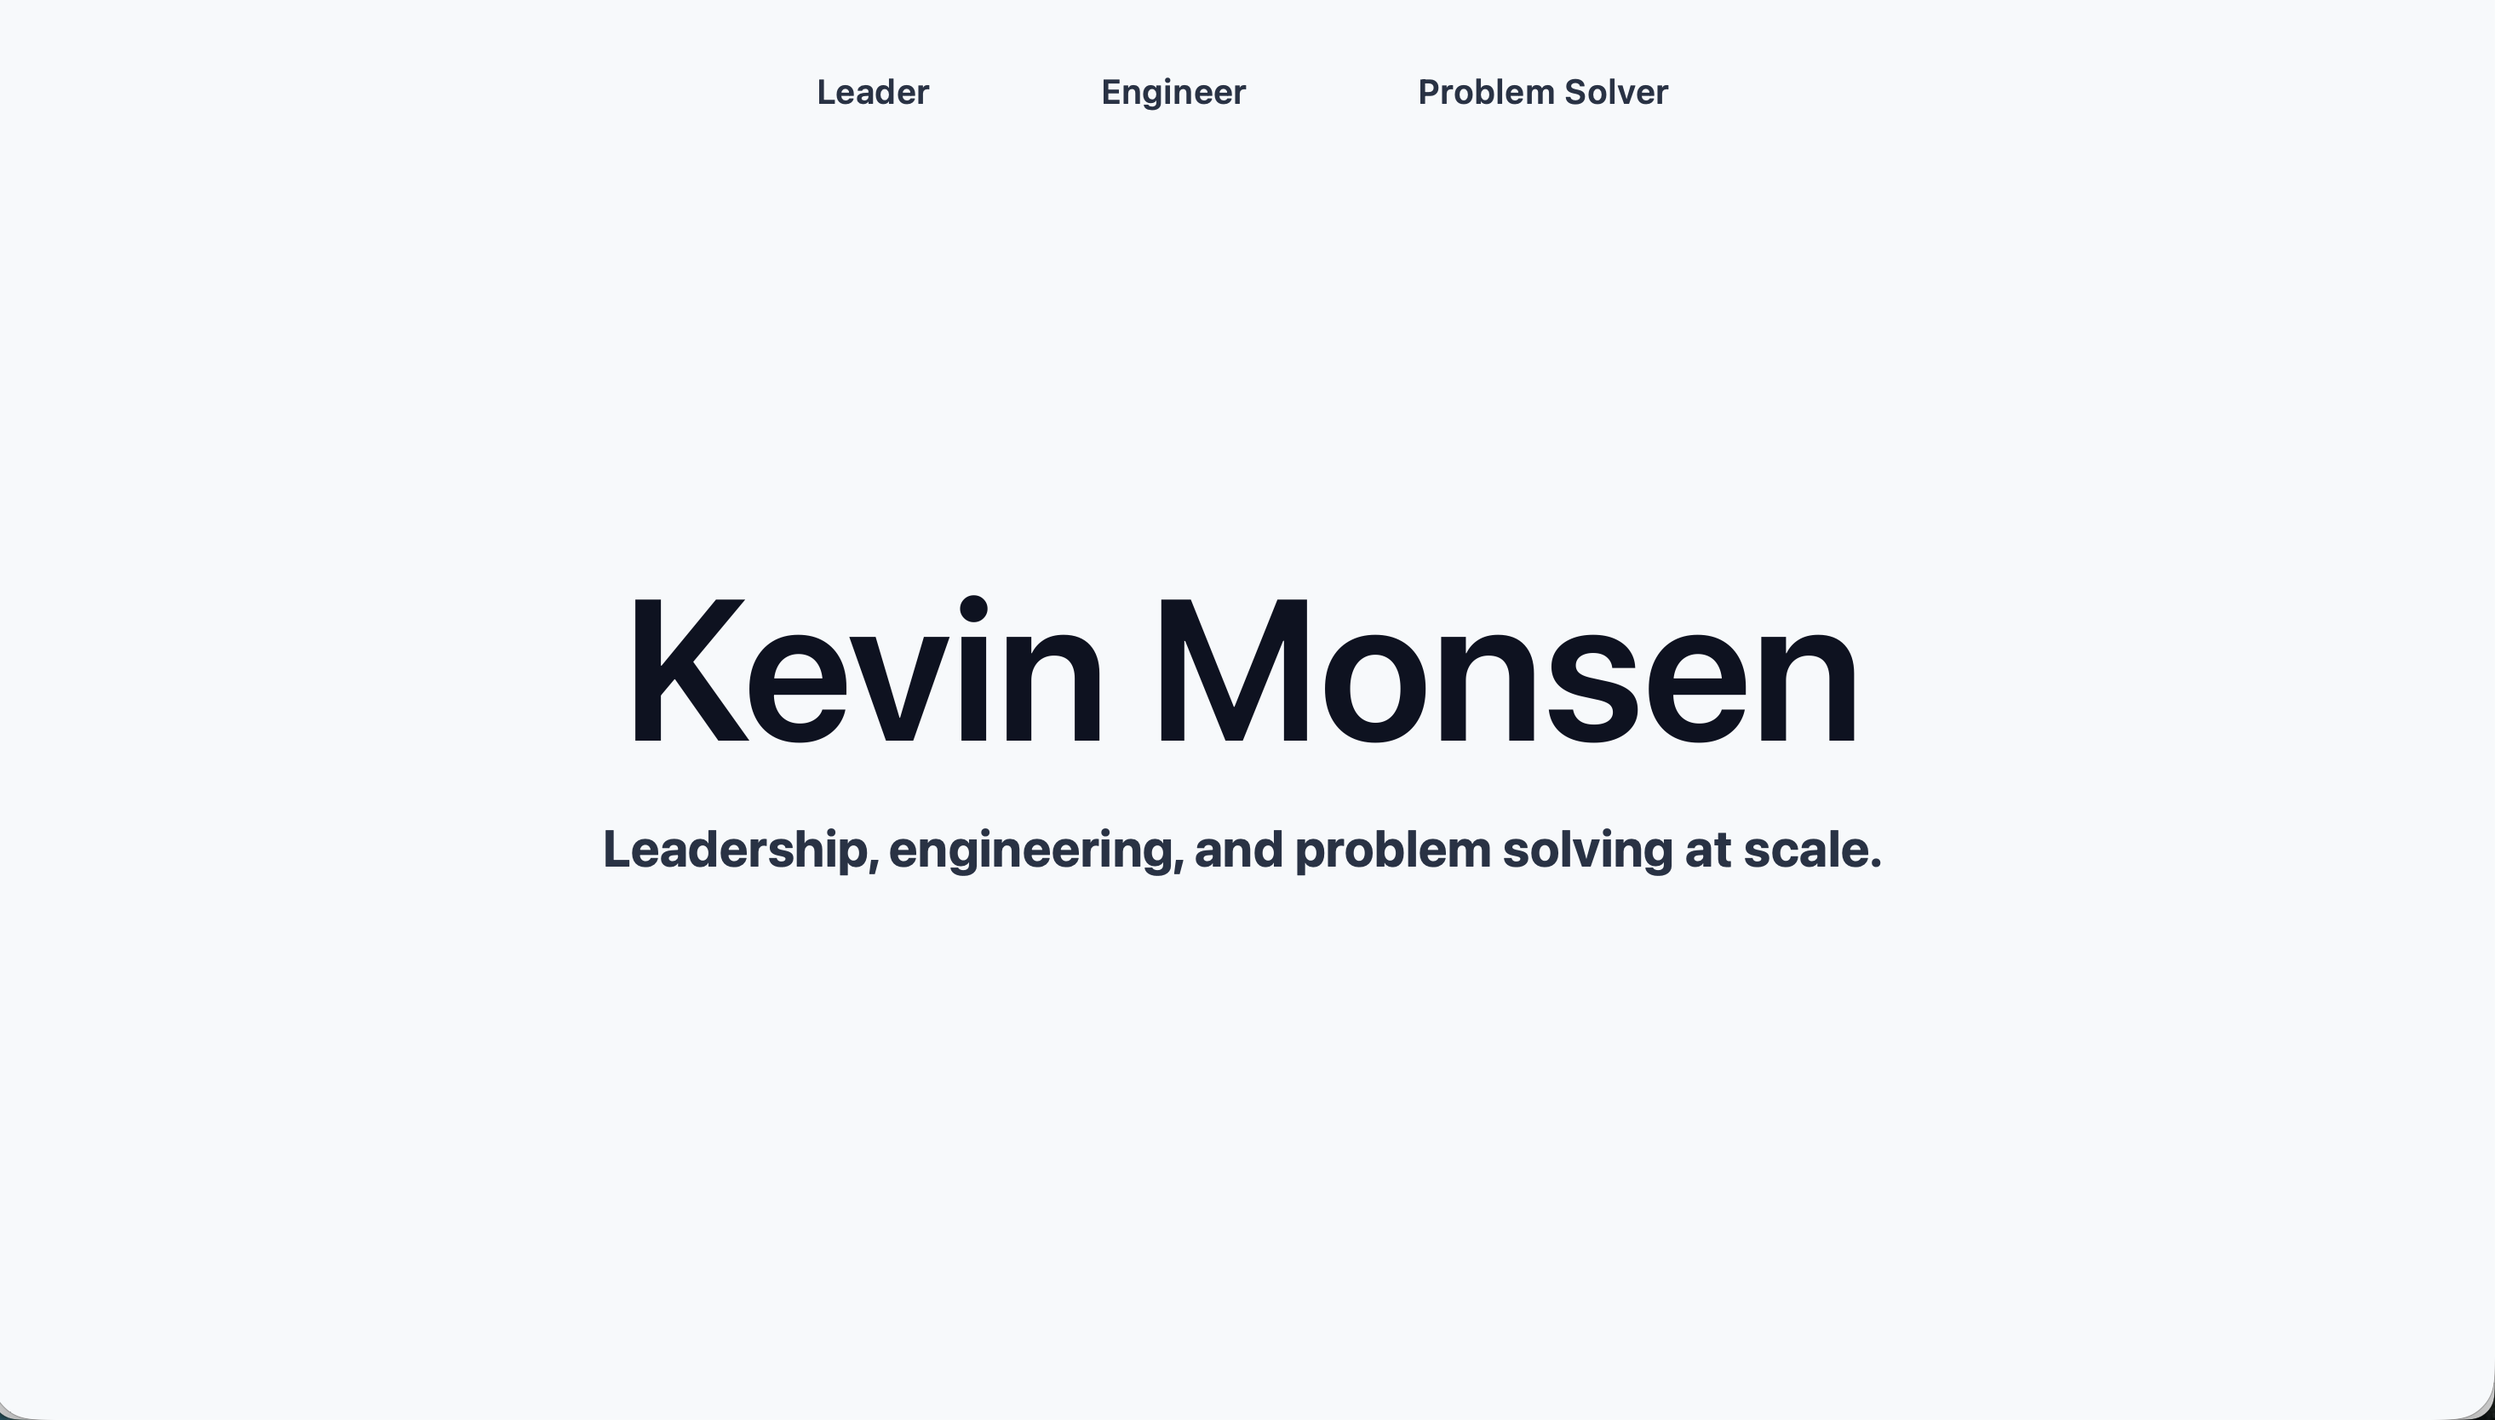
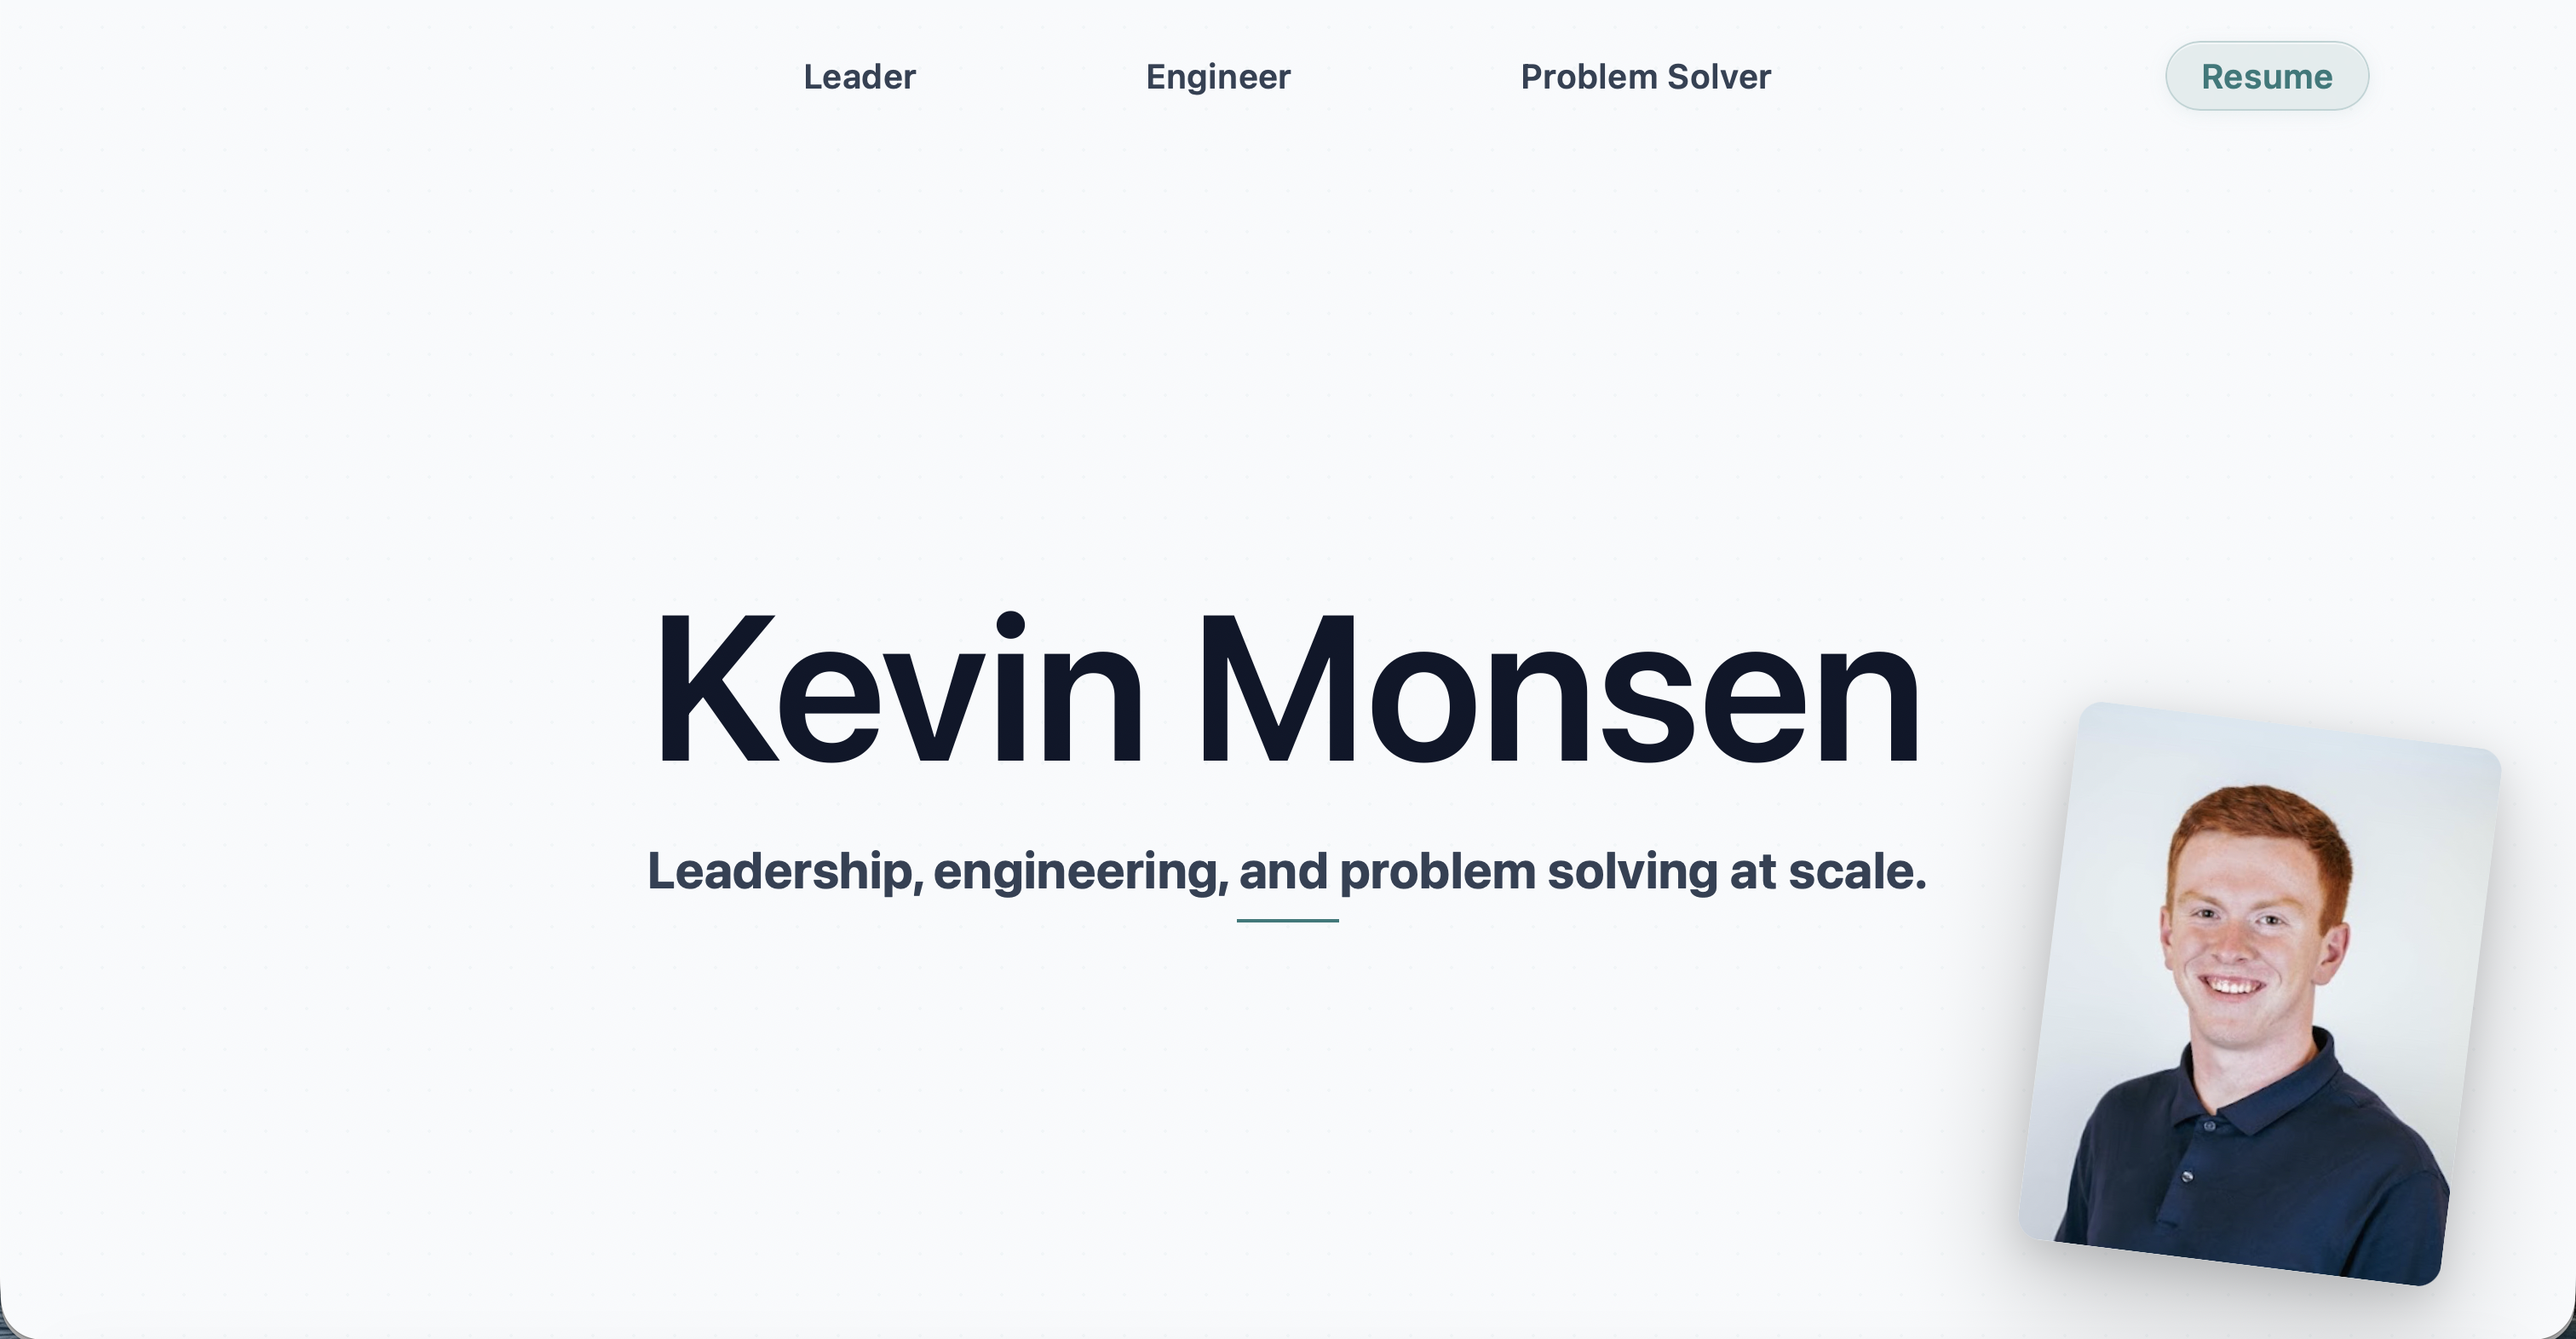
Project Information Update

diff --git a/build.js b/build.js
@@ -294,8 +294,6 @@ function buildAccordion() {
       card += `                  <b>Approach</b>: ${sanitizeHtml(w.approach)}<br>\n`;
     if (w.outcome && w.outcome !== "TODO")
       card += `                  <b>Outcome</b>: ${escHtml(stripTags(w.outcome))}<br>\n`;
-    if (w.relevance)
-      card += `                  <b>Relevance</b>: ${escHtml(w.relevance)}<br>\n`;
     if (href)
       card += `                  <a href="${escHtml(href)}" class="project-link">View project →</a>`;
     return card;
